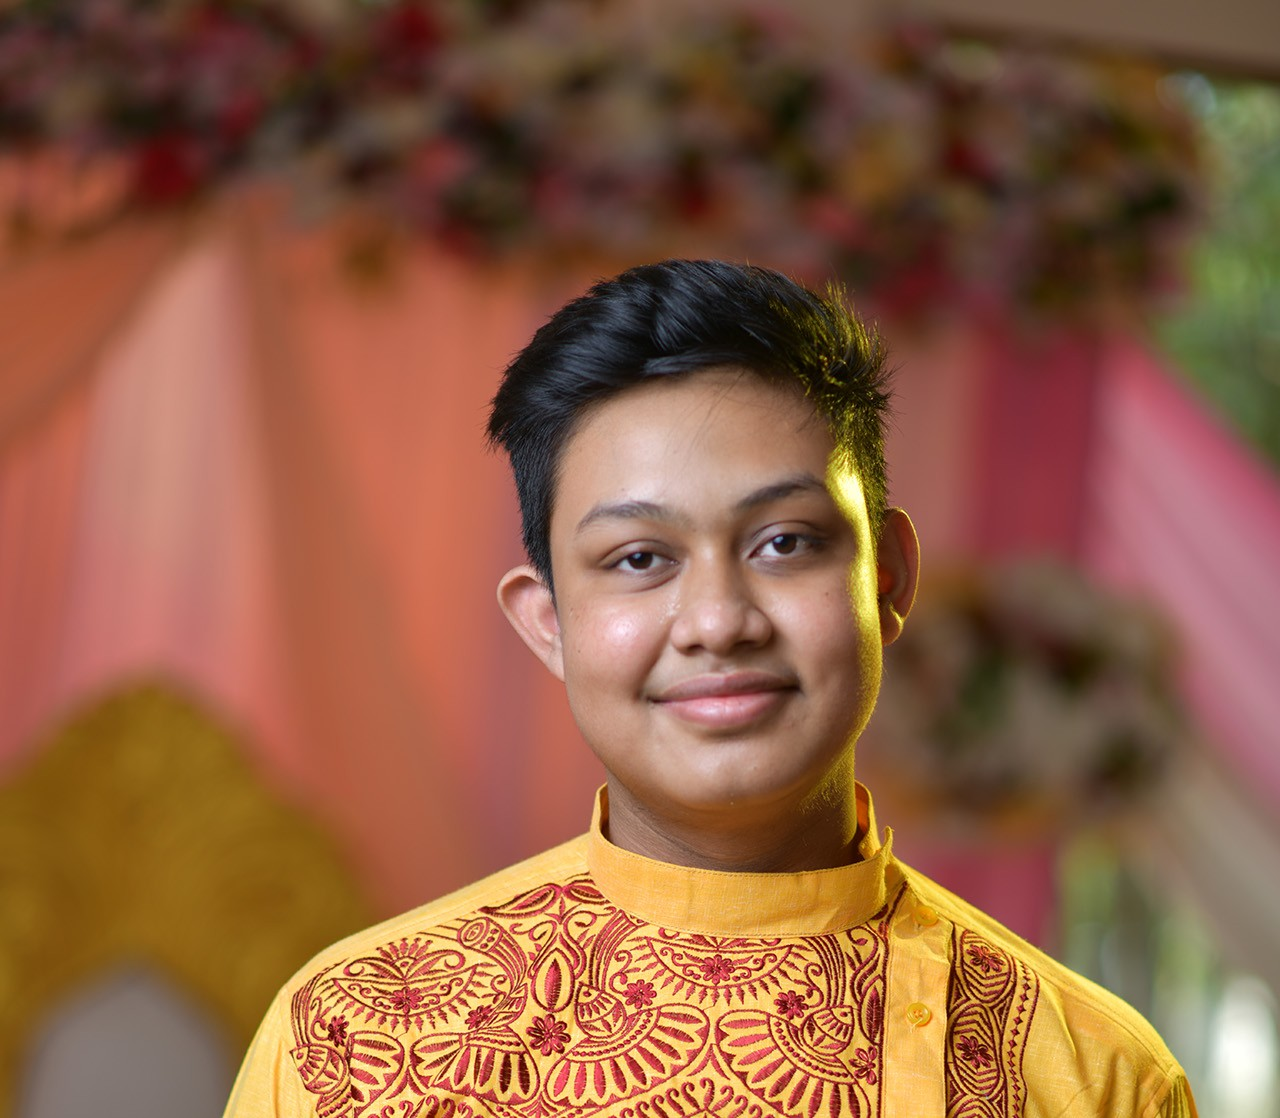
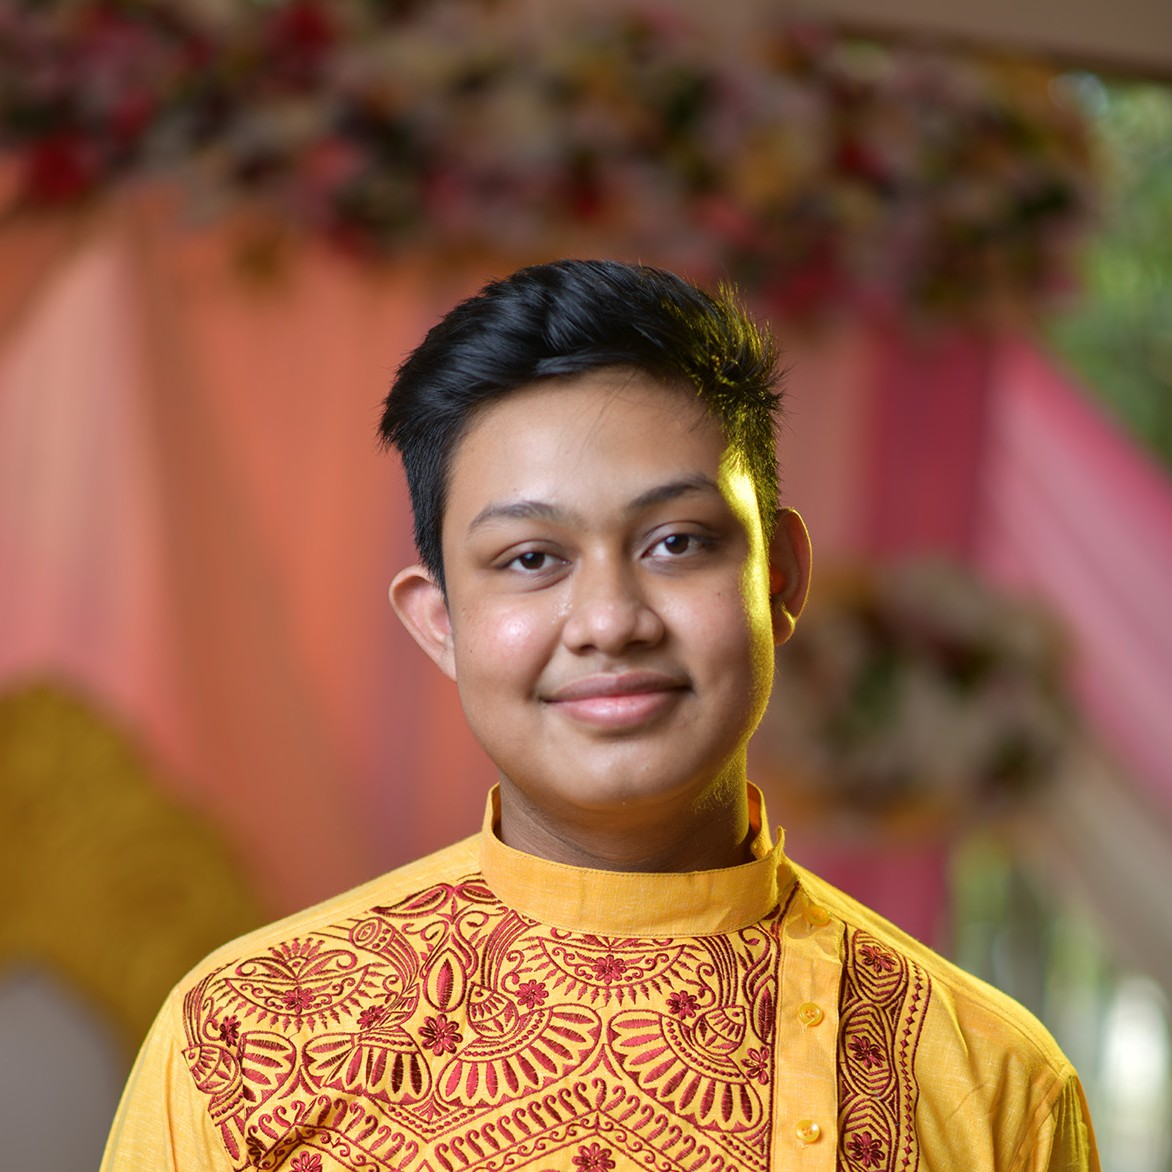
fix: Fix CSS issues for better look

diff --git a/css/about.css b/css/about.css
@@ -6,17 +6,17 @@
 ::-webkit-scrollbar {
     width: 8px;
   }
-  
+
   /* Track */
   ::-webkit-scrollbar-track {
     background: #f1f1f1;
   }
-  
+
   /* Handle */
   ::-webkit-scrollbar-thumb {
     background: #888888;
   }
-  
+
   /* Handle on hover */
   ::-webkit-scrollbar-thumb:hover {
     background: #555;
@@ -25,17 +25,11 @@
 body {
     margin: 0;
     padding: 0;
-    /* background-image: url("../img/main.jpg"); */
-    background-color: black;
-    /* background-repeat: no-repeat; */
+    background: radial-gradient(rgba(0, 0, 0, 0.74), rgb(5, 5, 5)), url('../img/a3.JPG');
+    background-repeat: no-repeat;
+    background-position-x: center;
     background-size: cover;
-}
-
-.myStyle {
-    position: sticky;
-    top: 0;
-    width: 100%;
-    /* background-color: rgba(0, 0, 0, 0.808); */
+    background-attachment: fixed;
 }
 
 .intro {
@@ -46,17 +40,11 @@ body {
 }
 
 .outro {
-    opacity: 0.1;
+    opacity: 1;
     margin-top: 50px;
     text-align: center;
     /* padding-left: 20px; */
     /* border-left: 8px solid rgba(255, 255, 255, 0.514); */
-    transition: opacity;
-    transition-duration: 0.5s;
-}
-
-.outro:hover {
-    opacity: 1;
 }
 
 .myName {
@@ -76,12 +64,6 @@ body {
 }
 
 #m_b_i {
-    opacity: 0.1;
-    transition: opacity;
-    transition-duration: 0.5s;
-}
-
-#m_b_i:hover{
     opacity: 1;
 }
 
@@ -114,47 +96,10 @@ body {
 
 }
 
-.bgaboutimg{
-    width: 100vw;
-    height: 100vh;
-    object-fit: cover;
-    position: fixed;
-    left: 0;
-    right: 0;
-    top: 0;
-    bottom: 0;
-    z-index: -1;
-}
-
-.bgimgoverlay{
-    width: 100vw;
-    height: 100vh;
-    object-fit: cover;
-    position: fixed;
-    top: 0;
-    left: 0;
-    background-color: rgba(0, 0, 0, 0.790);
-    z-index: -1;
-}
-
-#mobilebgvid{
-    width: 100vw;
-    height: 100vh;
-    object-fit: cover;
-    position: fixed;
-    top: 0;
-    left: 0;
-    bottom: 0;
-    right: 0;
-    z-index: -1;
-}
-
 #travel_locations {
-    opacity: 0.1;
-    transition: opacity;
-    transition-duration: 0.5s;
+    opacity: 1;
 }
 
-#travel_locations:hover {
-    opacity: 1;
+#personal_pic{
+    border-radius: 50%;
 }

diff --git a/about.html b/about.html
@@ -10,22 +10,13 @@
     <!-- Bootstrap CSS -->
     <link rel="stylesheet" href="https://stackpath.bootstrapcdn.com/bootstrap/4.5.0/css/bootstrap.min.css" integrity="sha384-9aIt2nRpC12Uk9gS9baDl411NQApFmC26EwAOH8WgZl5MYYxFfc+NcPb1dKGj7Sk" crossorigin="anonymous">
     <link rel="stylesheet" href="./css/about.css">
+    <link rel="stylesheet" href="./css/navbar.css">
     <title>@Souptik</title>
 </head>
 
 <body onmousemove="showCoords(event)">
     <!-- <img src="./img/main.jpg" class="t_i" alt="testImage"> -->
-    <video id="mobilebgvid" autoplay loop poster="./img/a7.jpg">
-        <source src="./img/mobilebg.mp4" type="video/mp4">
-      </video>
-    <div id="bgimgcontainer">
-        <img class="bgaboutimg" src="./img/a3.JPG" alt="pic">
-        <img class="bgaboutimg" src="./img/a7.jpg" alt="pic">
-        <!-- <img class="bgaboutimg" src="./img/a1.JPG" alt="pic">
-        <img class="bgaboutimg" src="./img/a2.JPG" alt="pic"> -->
-    </div>
-    <div class="bgimgoverlay"></div>
-    <nav class="navbar navbar-expand-sm navbar-dark navbar-fixed-top myStyle" id="navbarcustom">
+    <nav class="navbar navbar-expand-sm navbar-dark navbar-fixed-top myStyle">
         <a class="navbar-brand" href="/">✍🏻</a>
         <button class="navbar-toggler" type="button" data-toggle="collapse" data-target="#navbarSupportedContent" aria-controls="navbarSupportedContent" aria-expanded="false" aria-label="Toggle navigation">
               <span class="navbar-toggler-icon"></span>
@@ -73,7 +64,7 @@
         </div>
         <div style="height: 1px; background-color: rgba(234, 239, 245, 0.342)"></div>
         <div class="outro">
-            <h1 style="color: white; letter-spacing: 8px; font-family: Cambria, Cochin, Georgia, Times, 'Times New Roman', serif; font-weight: 800; font-size: 100px;">🧡 </h1>
+            <img id="personal_pic" height="200" src="./img/a7.jpg" alt="personal_pic">
         </div>
 
 

diff --git a/scripts/about.js b/scripts/about.js
@@ -2,46 +2,6 @@
 var main_b = document.getElementById("firstSec_i");
 var mine = document.getElementById("m_b_i");
 var desc = document.getElementById("desc_i");
-var bgimgcontainer = document.getElementById("bgimgcontainer");
-var videoElement = document.getElementById("mobilebgvid");
-var navbarcustom = document.getElementById("navbarcustom");
-var bgimgsNl = bgimgcontainer.childNodes;
-var bgimgs = [];
-for(var i = bgimgsNl.length; i--; bgimgs.unshift(bgimgsNl[i]));
-bgimgs = bgimgs.filter(removeOtherNodes);
-var bgimgsopacities = new Array(bgimgs.length).fill(1);
-var useVideo = false;
-if(isMobileTablet()){
-    useVideo = true;
-    mobilebgvid.style.visibility = "visible";
-    bgimgcontainer.style.visibility = "hidden";
-}else{
-    useVideo = false;
-    bgimgcontainer.style.visibility = "visible";
-    mobilebgvid.style.visibility = "hidden";
-}
-setInterval(checkSize, 300);
-
-function checkSize() {
-    if(isMobileTablet()){
-        useVideo = true;
-        mobilebgvid.style.visibility = "visible";
-        bgimgcontainer.style.visibility = "hidden";
-    }else{
-        useVideo = false;
-        bgimgcontainer.style.visibility = "visible";
-        mobilebgvid.style.visibility = "hidden";
-    }
-    if(window.innerHeight > window.innerWidth){
-        navbarcustom.style.backgroundColor = "rgba(0, 0, 0, 0.808)";
-    }else{
-        navbarcustom.style.backgroundColor = "rgba(0, 0, 0, 0)";
-    }
-}
-
-function removeOtherNodes(nodeType){
-    if(nodeType.nodeName == "IMG") return true;
-}
 
 function showCoords(event){
     if(!useVideo){

diff --git a/css/style_index.css b/css/style_index.css
@@ -6,17 +6,17 @@
 ::-webkit-scrollbar {
     width: 8px;
   }
-  
+
   /* Track */
   ::-webkit-scrollbar-track {
     background: #f1f1f1;
   }
-  
+
   /* Handle */
   ::-webkit-scrollbar-thumb {
     background: #888888;
   }
-  
+
   /* Handle on hover */
   ::-webkit-scrollbar-thumb:hover {
     background: #555;
@@ -31,13 +31,6 @@ body {
     background-position-x: center;
     background-size: cover;
     background-attachment: fixed;
-}
-
-.myStyle {
-    position: sticky;
-    top: 0;
-    width: 100%;
-    background-color: rgba(0, 0, 0, 0.808);
 }
 
 .intro {

diff --git a/index.html b/index.html
@@ -10,6 +10,7 @@
     <!-- Bootstrap CSS -->
     <link rel="stylesheet" href="https://stackpath.bootstrapcdn.com/bootstrap/4.5.0/css/bootstrap.min.css" integrity="sha384-9aIt2nRpC12Uk9gS9baDl411NQApFmC26EwAOH8WgZl5MYYxFfc+NcPb1dKGj7Sk" crossorigin="anonymous">
     <link rel="stylesheet" href="./css/style_index.css">
+    <link rel="stylesheet" href="./css/navbar.css">
     <title>@Souptik</title>
 </head>
 

diff --git a/css/navbar.css b/css/navbar.css
@@ -1,0 +1,6 @@
+.myStyle {
+    position: sticky;
+    top: 0;
+    width: 100%;
+    background-color: rgba(0, 0, 0, 0.500);
+}
